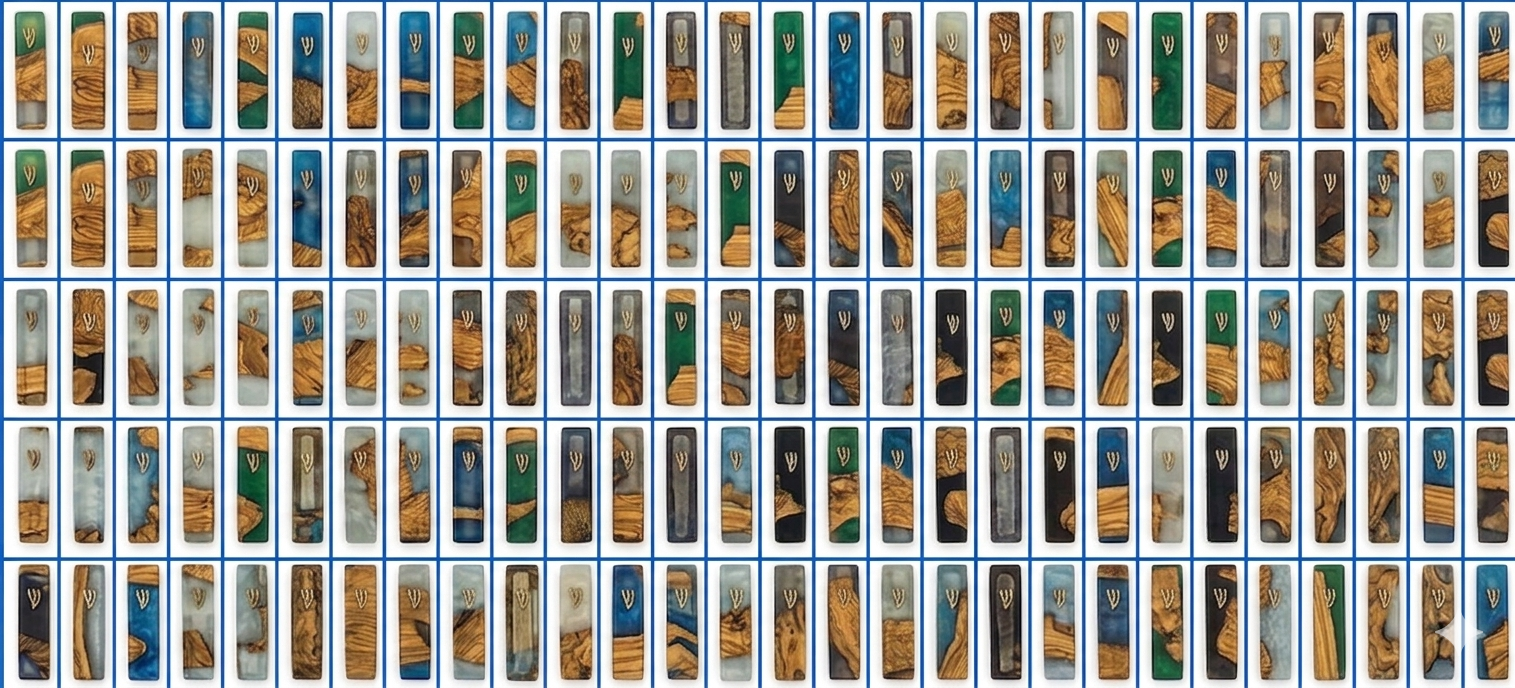
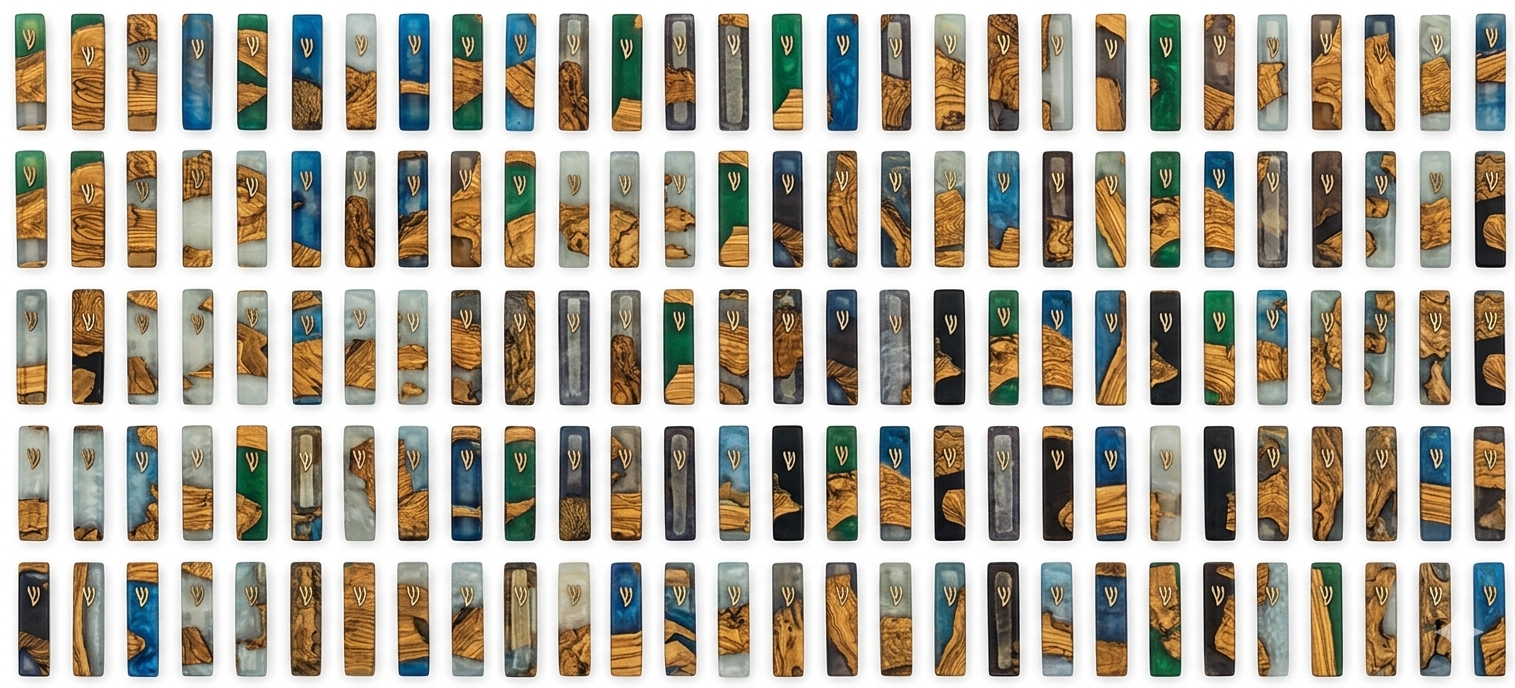
Reverted to commit eee2145366aa1557707bf5d061d1e620a17f3a6b

diff --git a/src/pages/IsraelMezuzahsCategoryPage.tsx b/src/pages/IsraelMezuzahsCategoryPage.tsx
@@ -11,7 +11,6 @@ import imProduct6 from "@/assets/stores/im-product-6.png";
 import imProduct7 from "@/assets/stores/im-product-7.png";
 import imProduct8 from "@/assets/stores/im-product-8.png";
 import imMezuzahsCollection from "@/assets/stores/im-mezuzahs-collection.png";
-import { toast } from "@/hooks/use-toast";
 
 export interface IMCategory {
   slug: string;
@@ -118,10 +117,6 @@ const IsraelMezuzahsCategoryPage = () => {
   const category = categoryIdx >= 0 ? imCategories[categoryIdx] : undefined;
   const isMezuzahs = category?.slug === "mezuzahs";
 
-  // Grid overlay configuration matching the blue lines in the collection image
-  const GRID_ROWS = 5;
-  const GRID_COLS = 28;
-
   const lensSize = 180;
   const zoom = 2.5;
   const imgRef = useRef<HTMLImageElement>(null);
@@ -204,38 +199,6 @@ const IsraelMezuzahsCategoryPage = () => {
                     className="w-full h-auto block select-none"
                     draggable={false}
                   />
-                  {/* Grid overlay aligned with the blue separator lines */}
-                  <div
-                    className="pointer-events-none absolute inset-0 grid"
-                    style={{
-                      gridTemplateRows: `repeat(${GRID_ROWS}, 1fr)`,
-                      gridTemplateColumns: `repeat(${GRID_COLS}, 1fr)`,
-                    }}
-                  >
-                    {Array.from({ length: GRID_ROWS * GRID_COLS }).map((_, idx) => {
-                      const row = Math.floor(idx / GRID_COLS) + 1;
-                      const col = (idx % GRID_COLS) + 1;
-                      return (
-                        <div
-                          key={idx}
-                          className="relative flex items-center justify-center group"
-                        >
-                          <button
-                            type="button"
-                            aria-label={`מזוזה שורה ${row} עמודה ${col}`}
-                            onClick={(e) => {
-                              e.stopPropagation();
-                              toast({
-                                title: `מזוזה ${row}.${col}`,
-                                description: "נבחרה מזוזה מהאוסף",
-                              });
-                            }}
-                            className="pointer-events-auto w-1/2 h-1/3 rounded-sm border border-transparent hover:border-mall-gold hover:bg-mall-gold/20 focus:outline-none focus:ring-2 focus:ring-mall-gold transition-all cursor-pointer"
-                          />
-                        </div>
-                      );
-                    })}
-                  </div>
                   {lens.visible && (
                     <div
                       className="pointer-events-none absolute rounded-full border-4 border-white shadow-2xl ring-2 ring-black/30"
